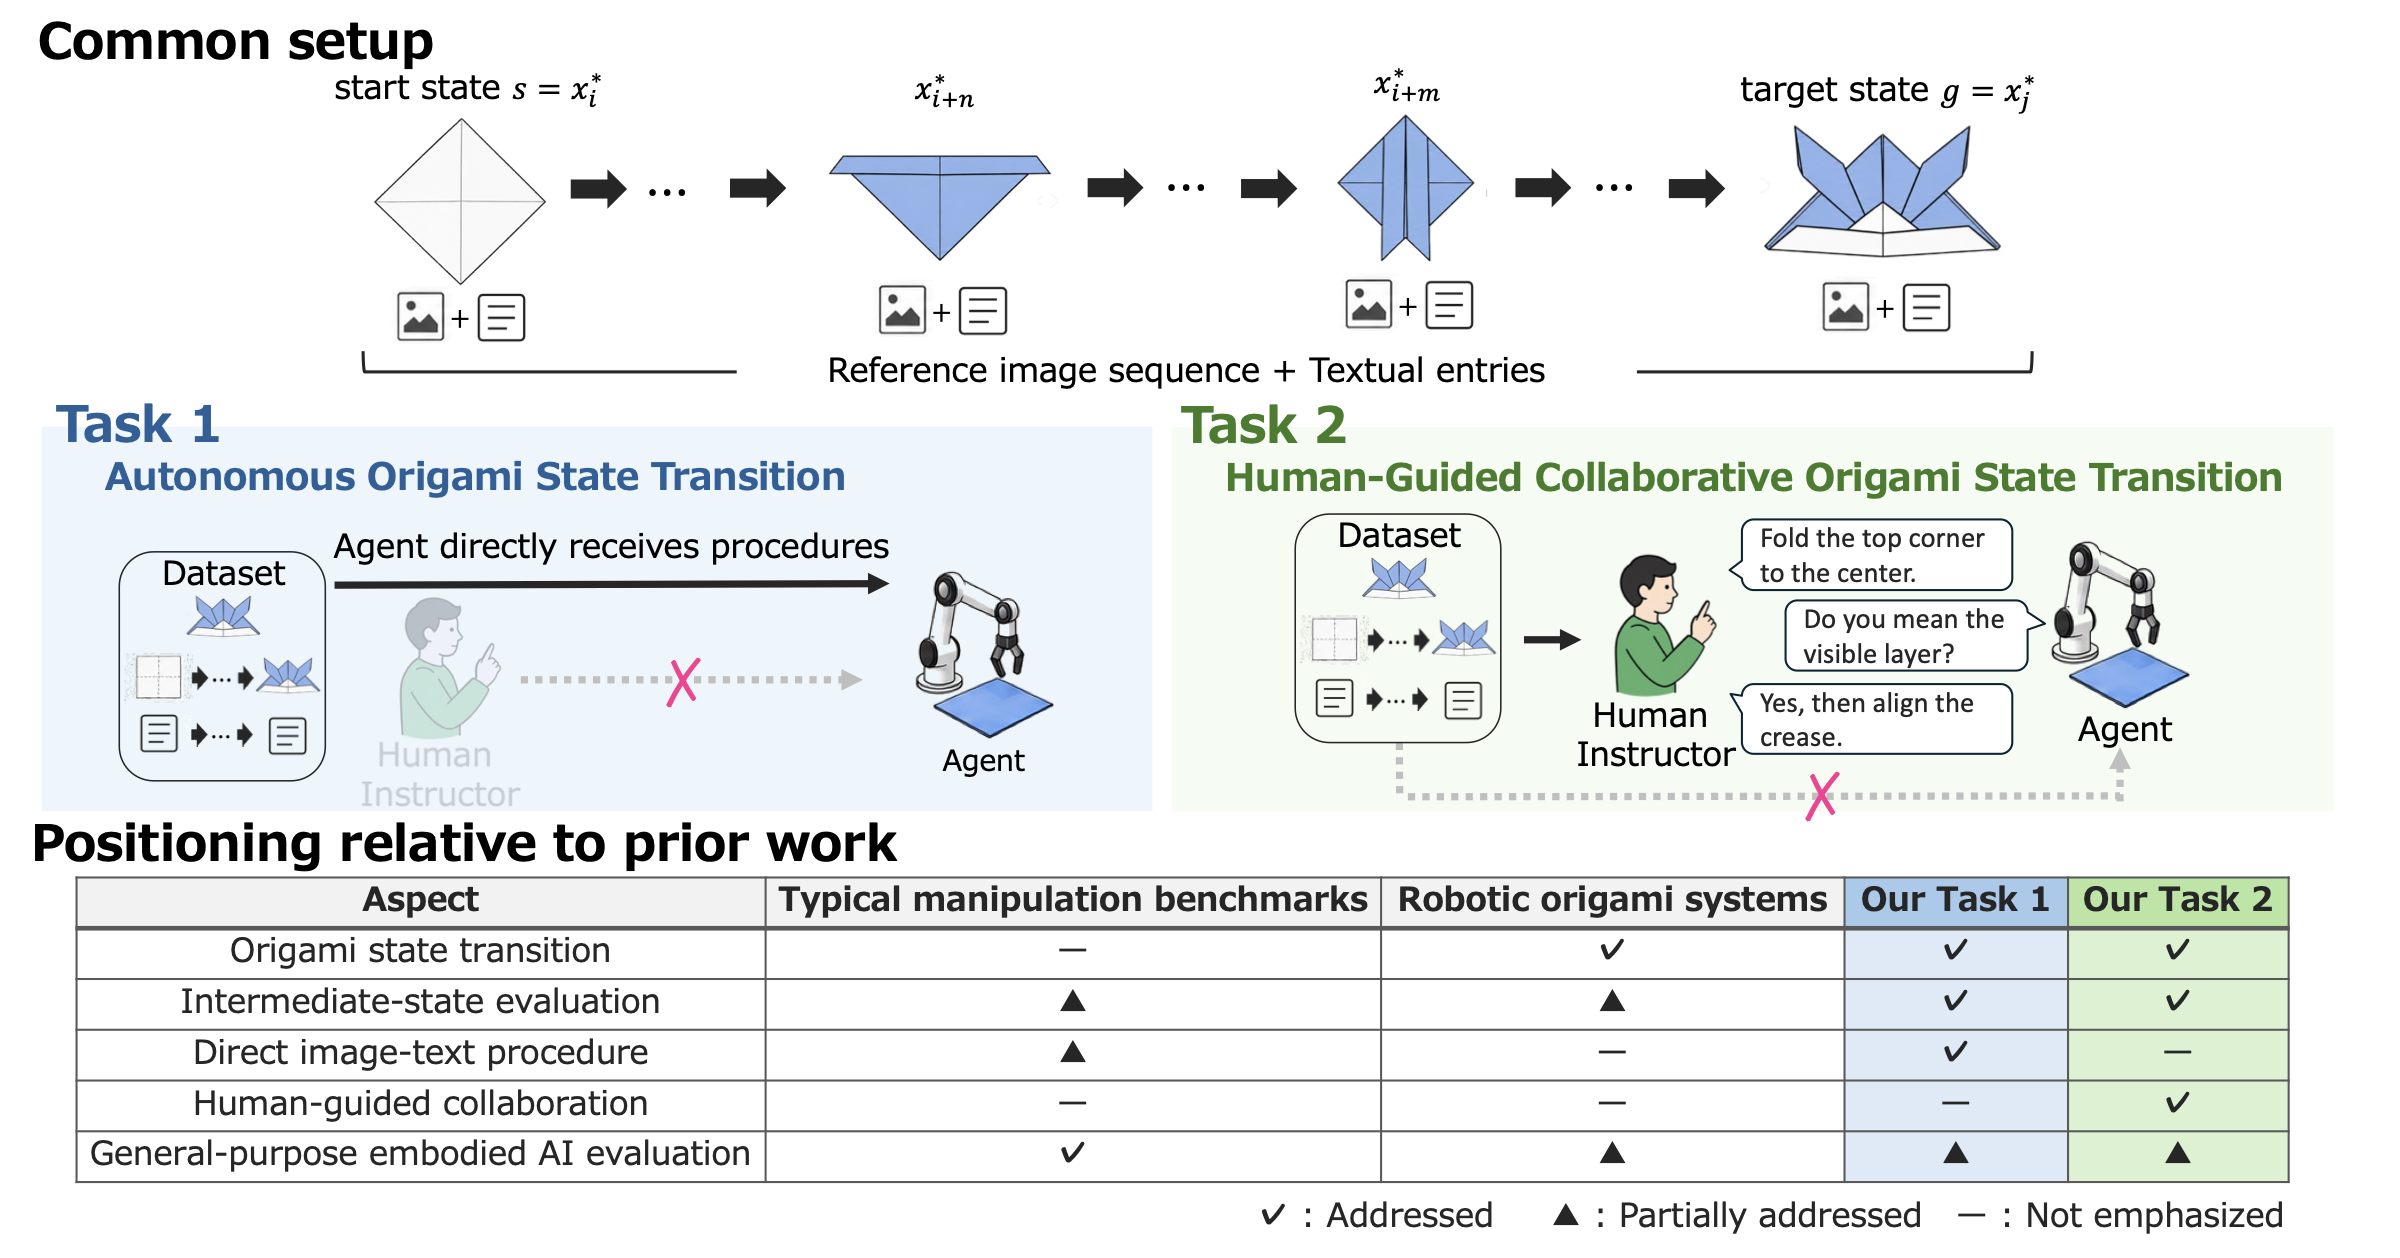
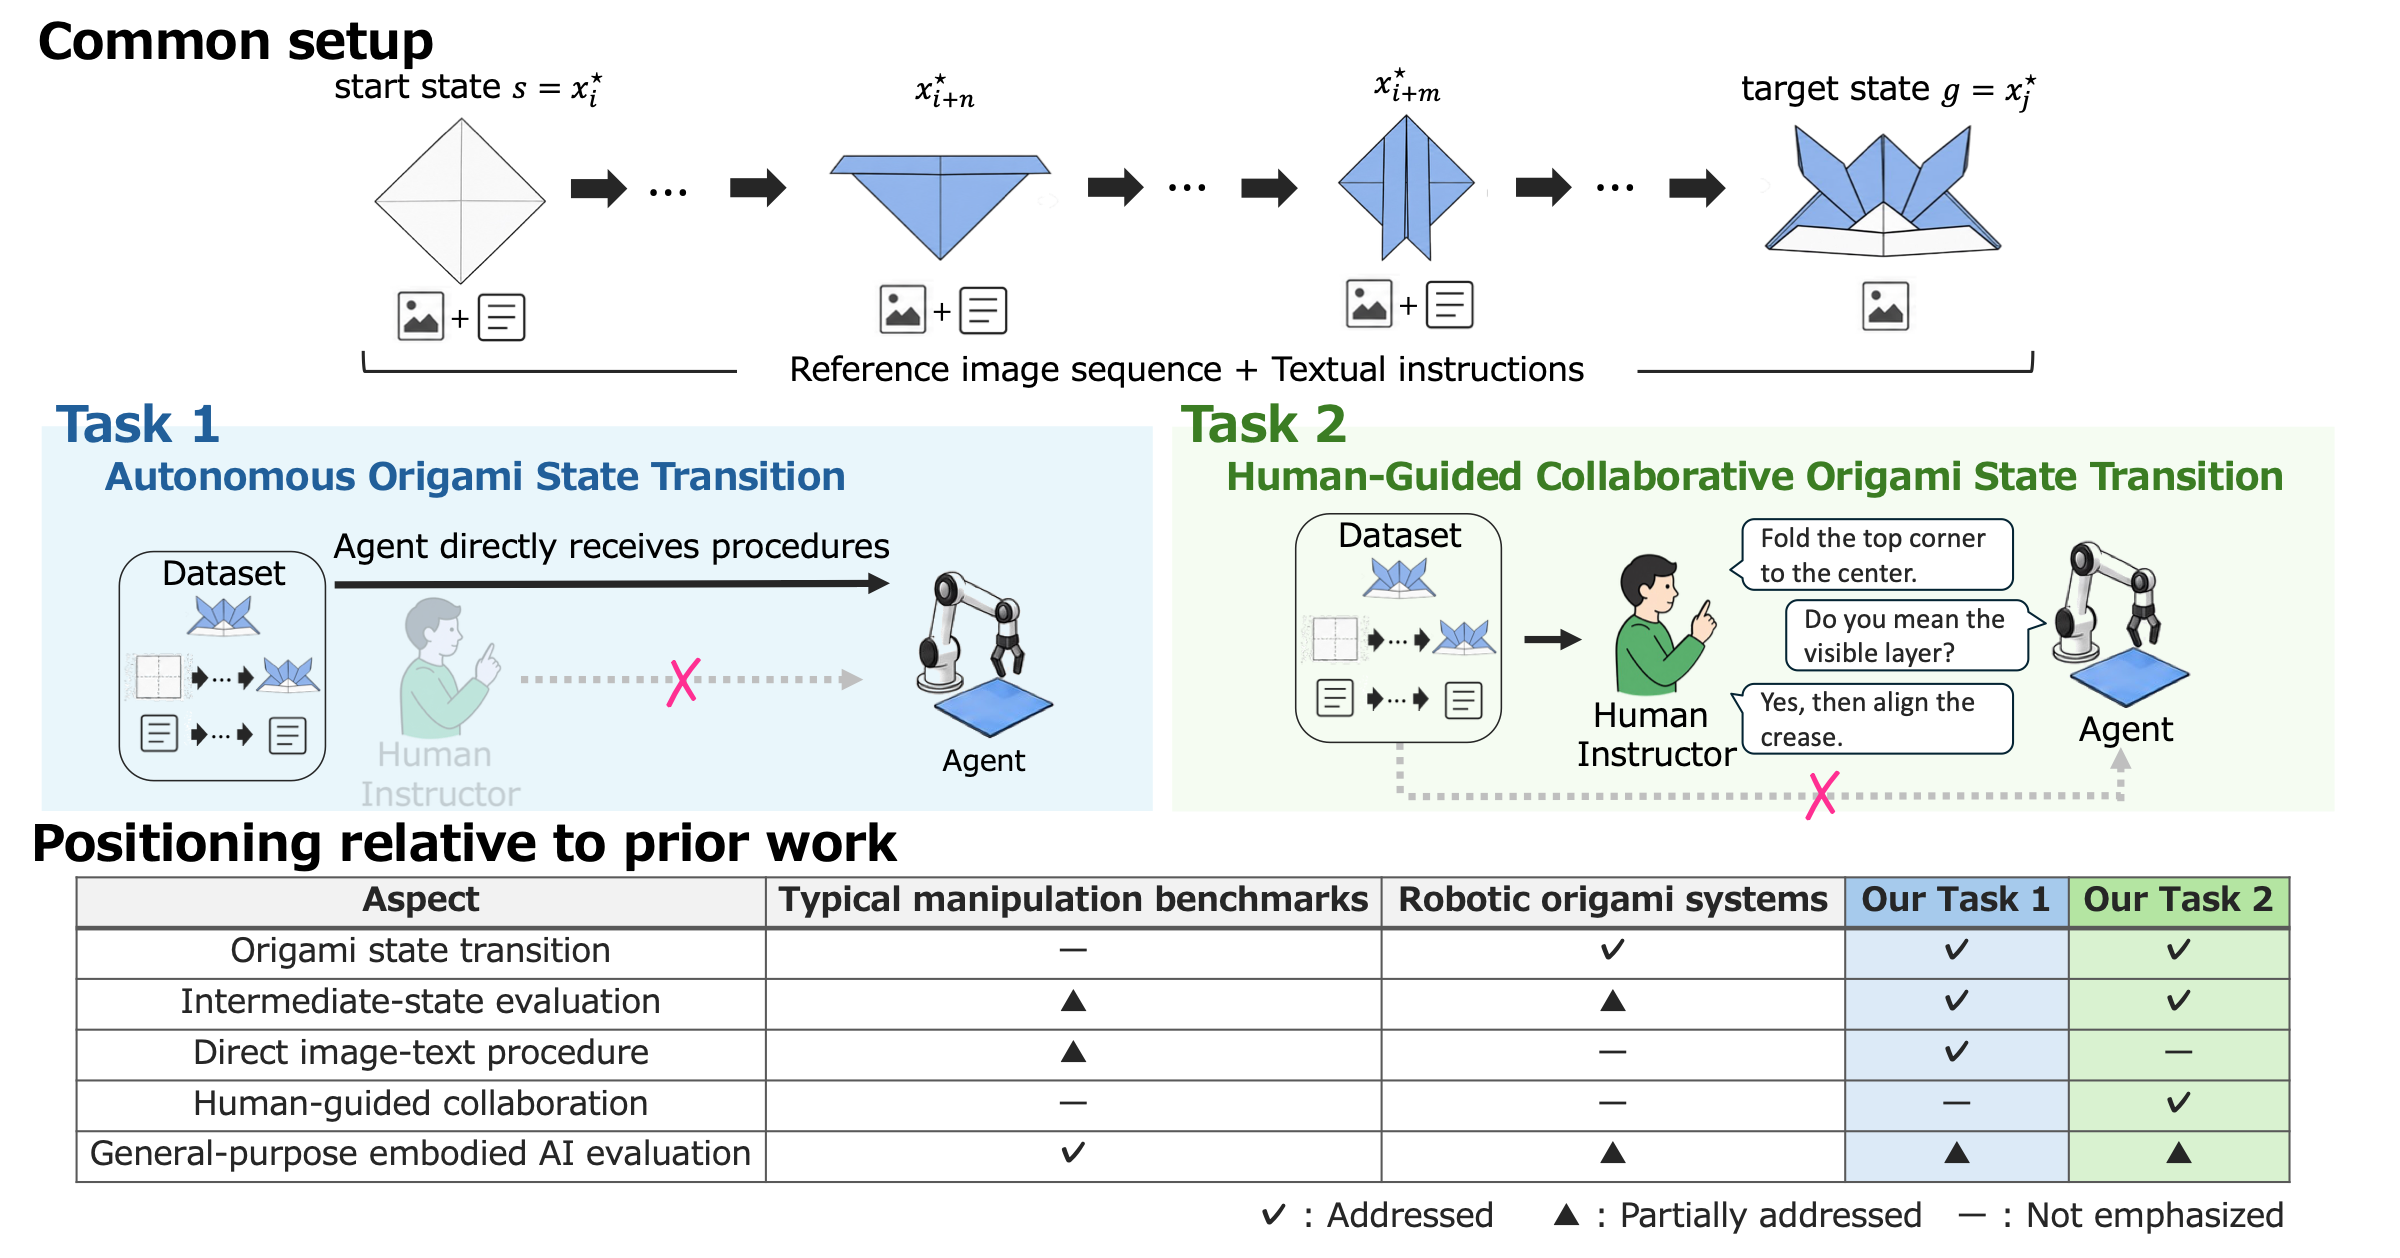
Update overview figure to the current Fig. 1

diff --git a/docs/index.html b/docs/index.html
@@ -170,7 +170,7 @@
   <main class="wrap">
     <section>
       <figure>
-        <img src="static/images/overview.png" alt="Overview of the OrigamiTrace benchmark: a reference image sequence with textual entries from a start state to a target state, Task 1 where the agent directly receives the procedure, Task 2 where a human instructor guides the agent, and a comparison with prior work." width="2400" height="1258">
+        <img src="static/images/overview.png" alt="Overview of the OrigamiTrace benchmark: a reference image sequence with textual instructions from a start state to a target state, Task 1 where the agent directly receives the procedure, Task 2 where a human instructor guides the agent, and a comparison with prior work." width="2400" height="1258">
         <figcaption>Overview of the benchmark tasks and how they relate to typical manipulation benchmarks and robotic origami systems.</figcaption>
       </figure>
     </section>
